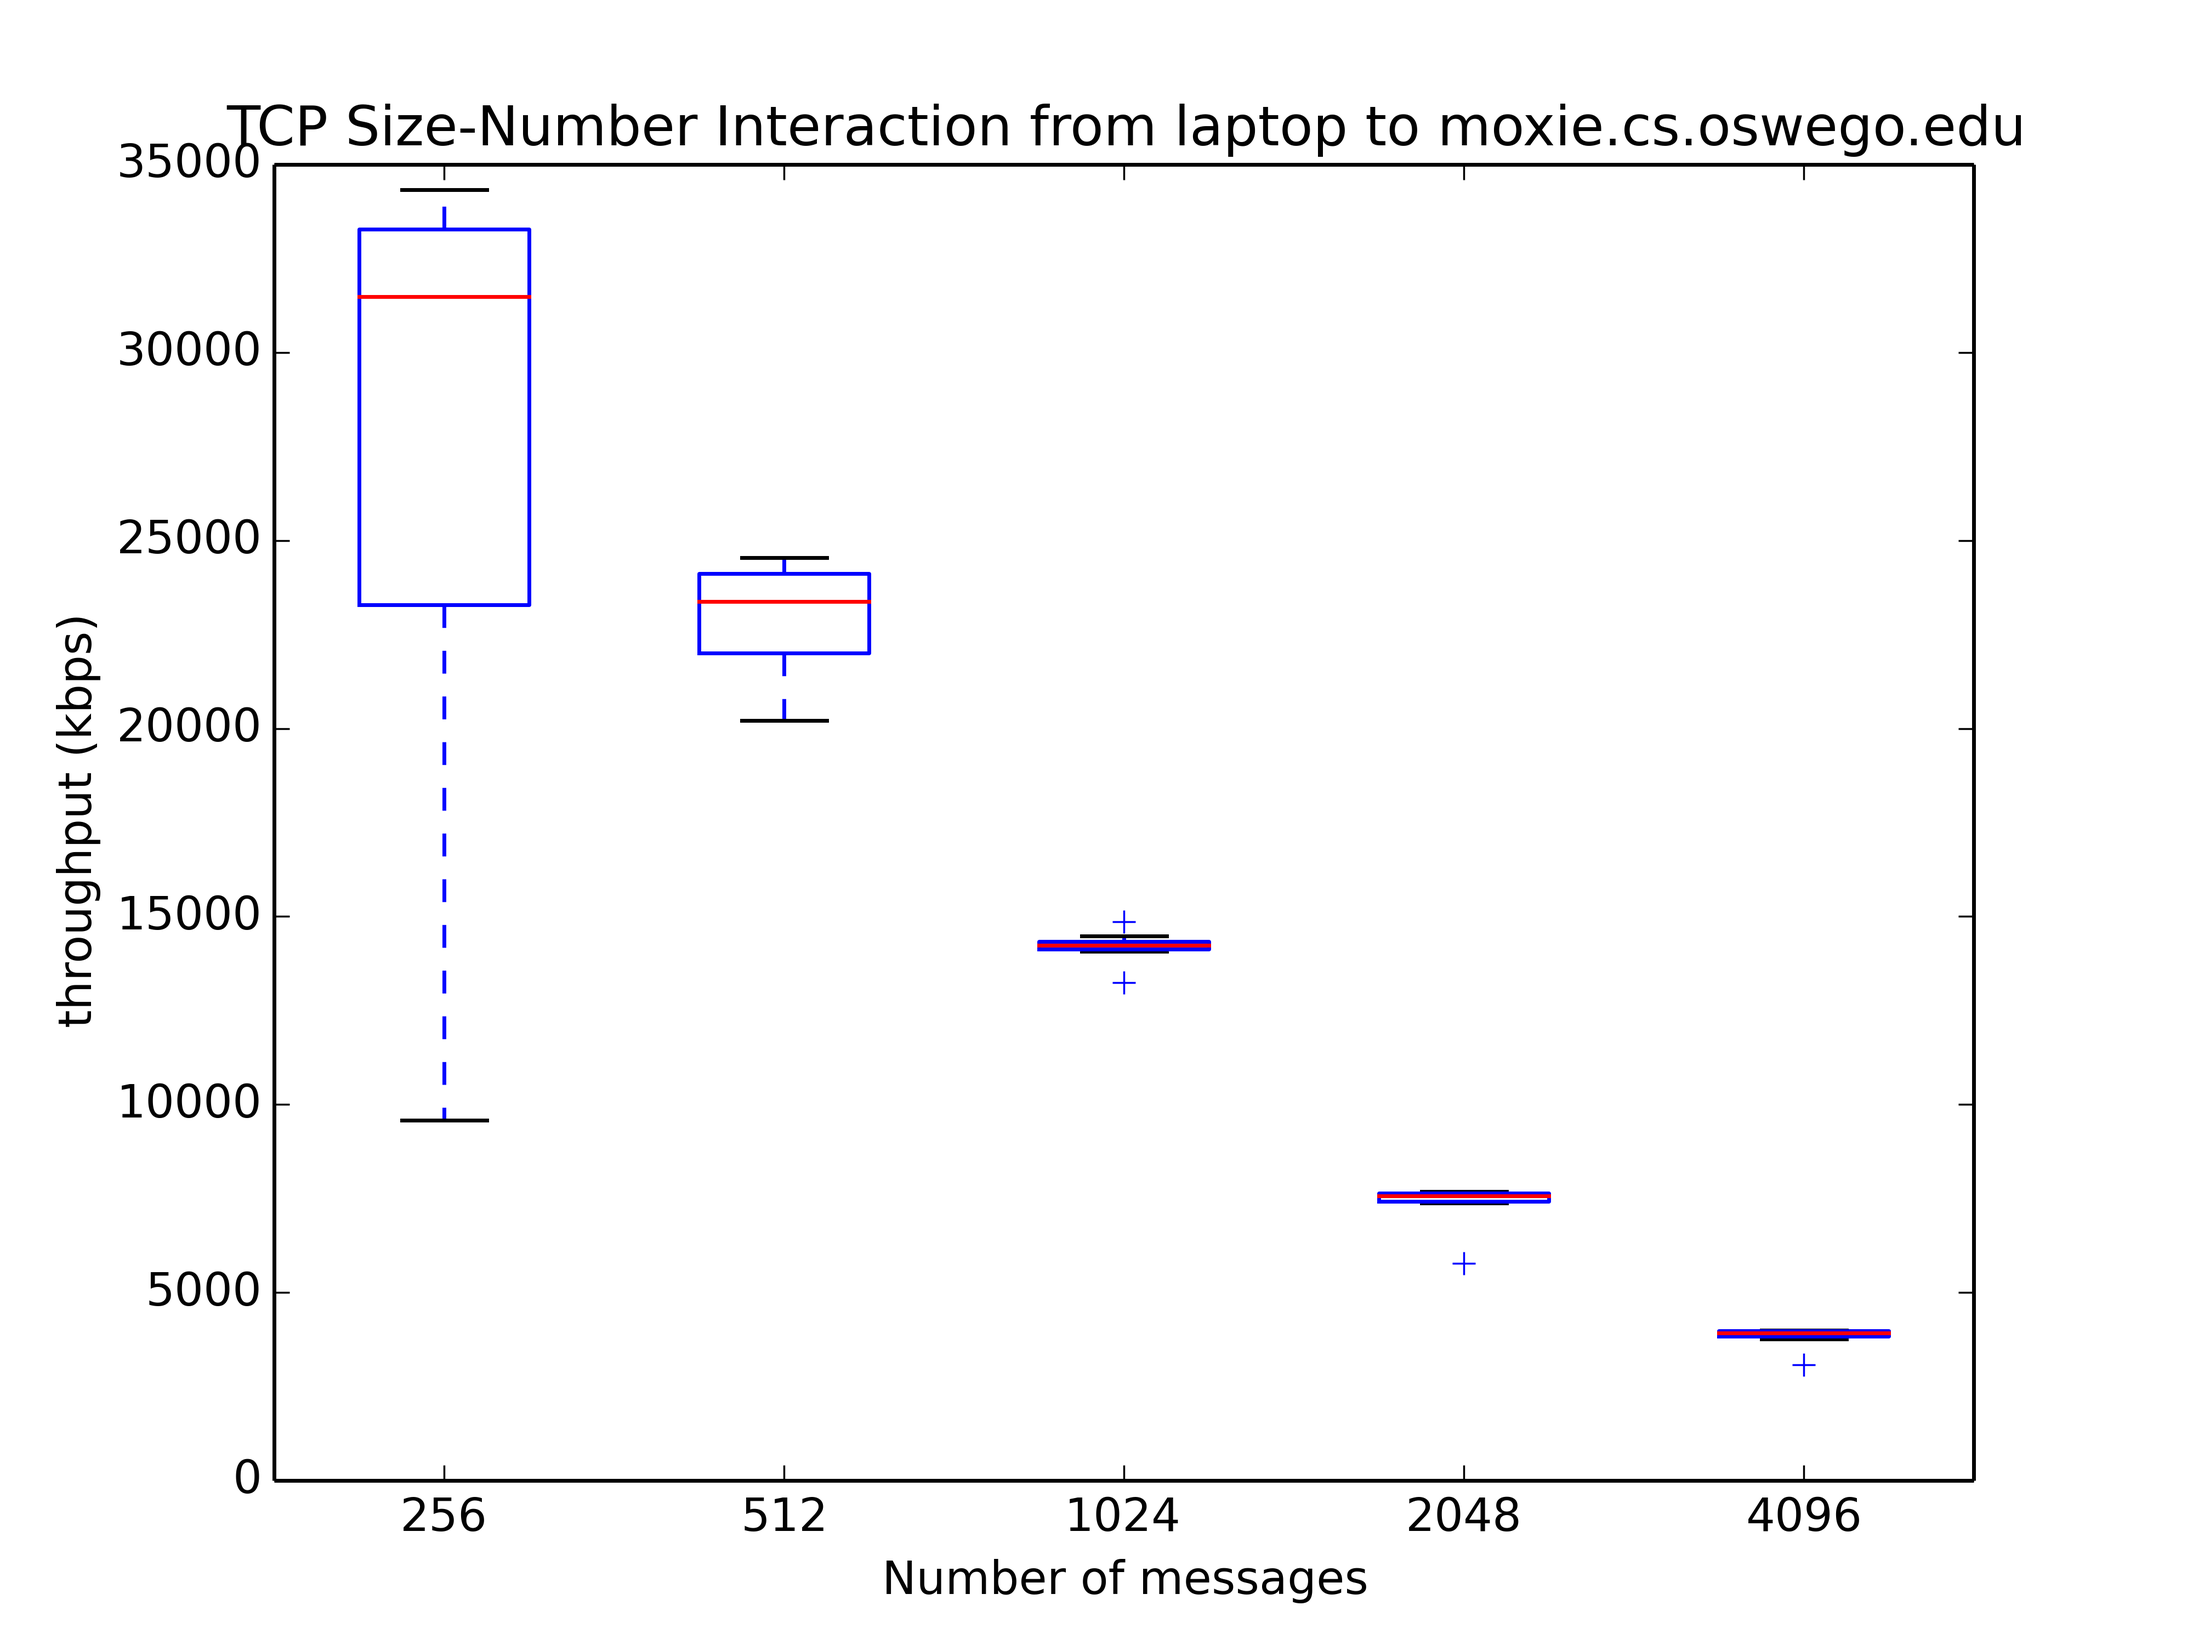
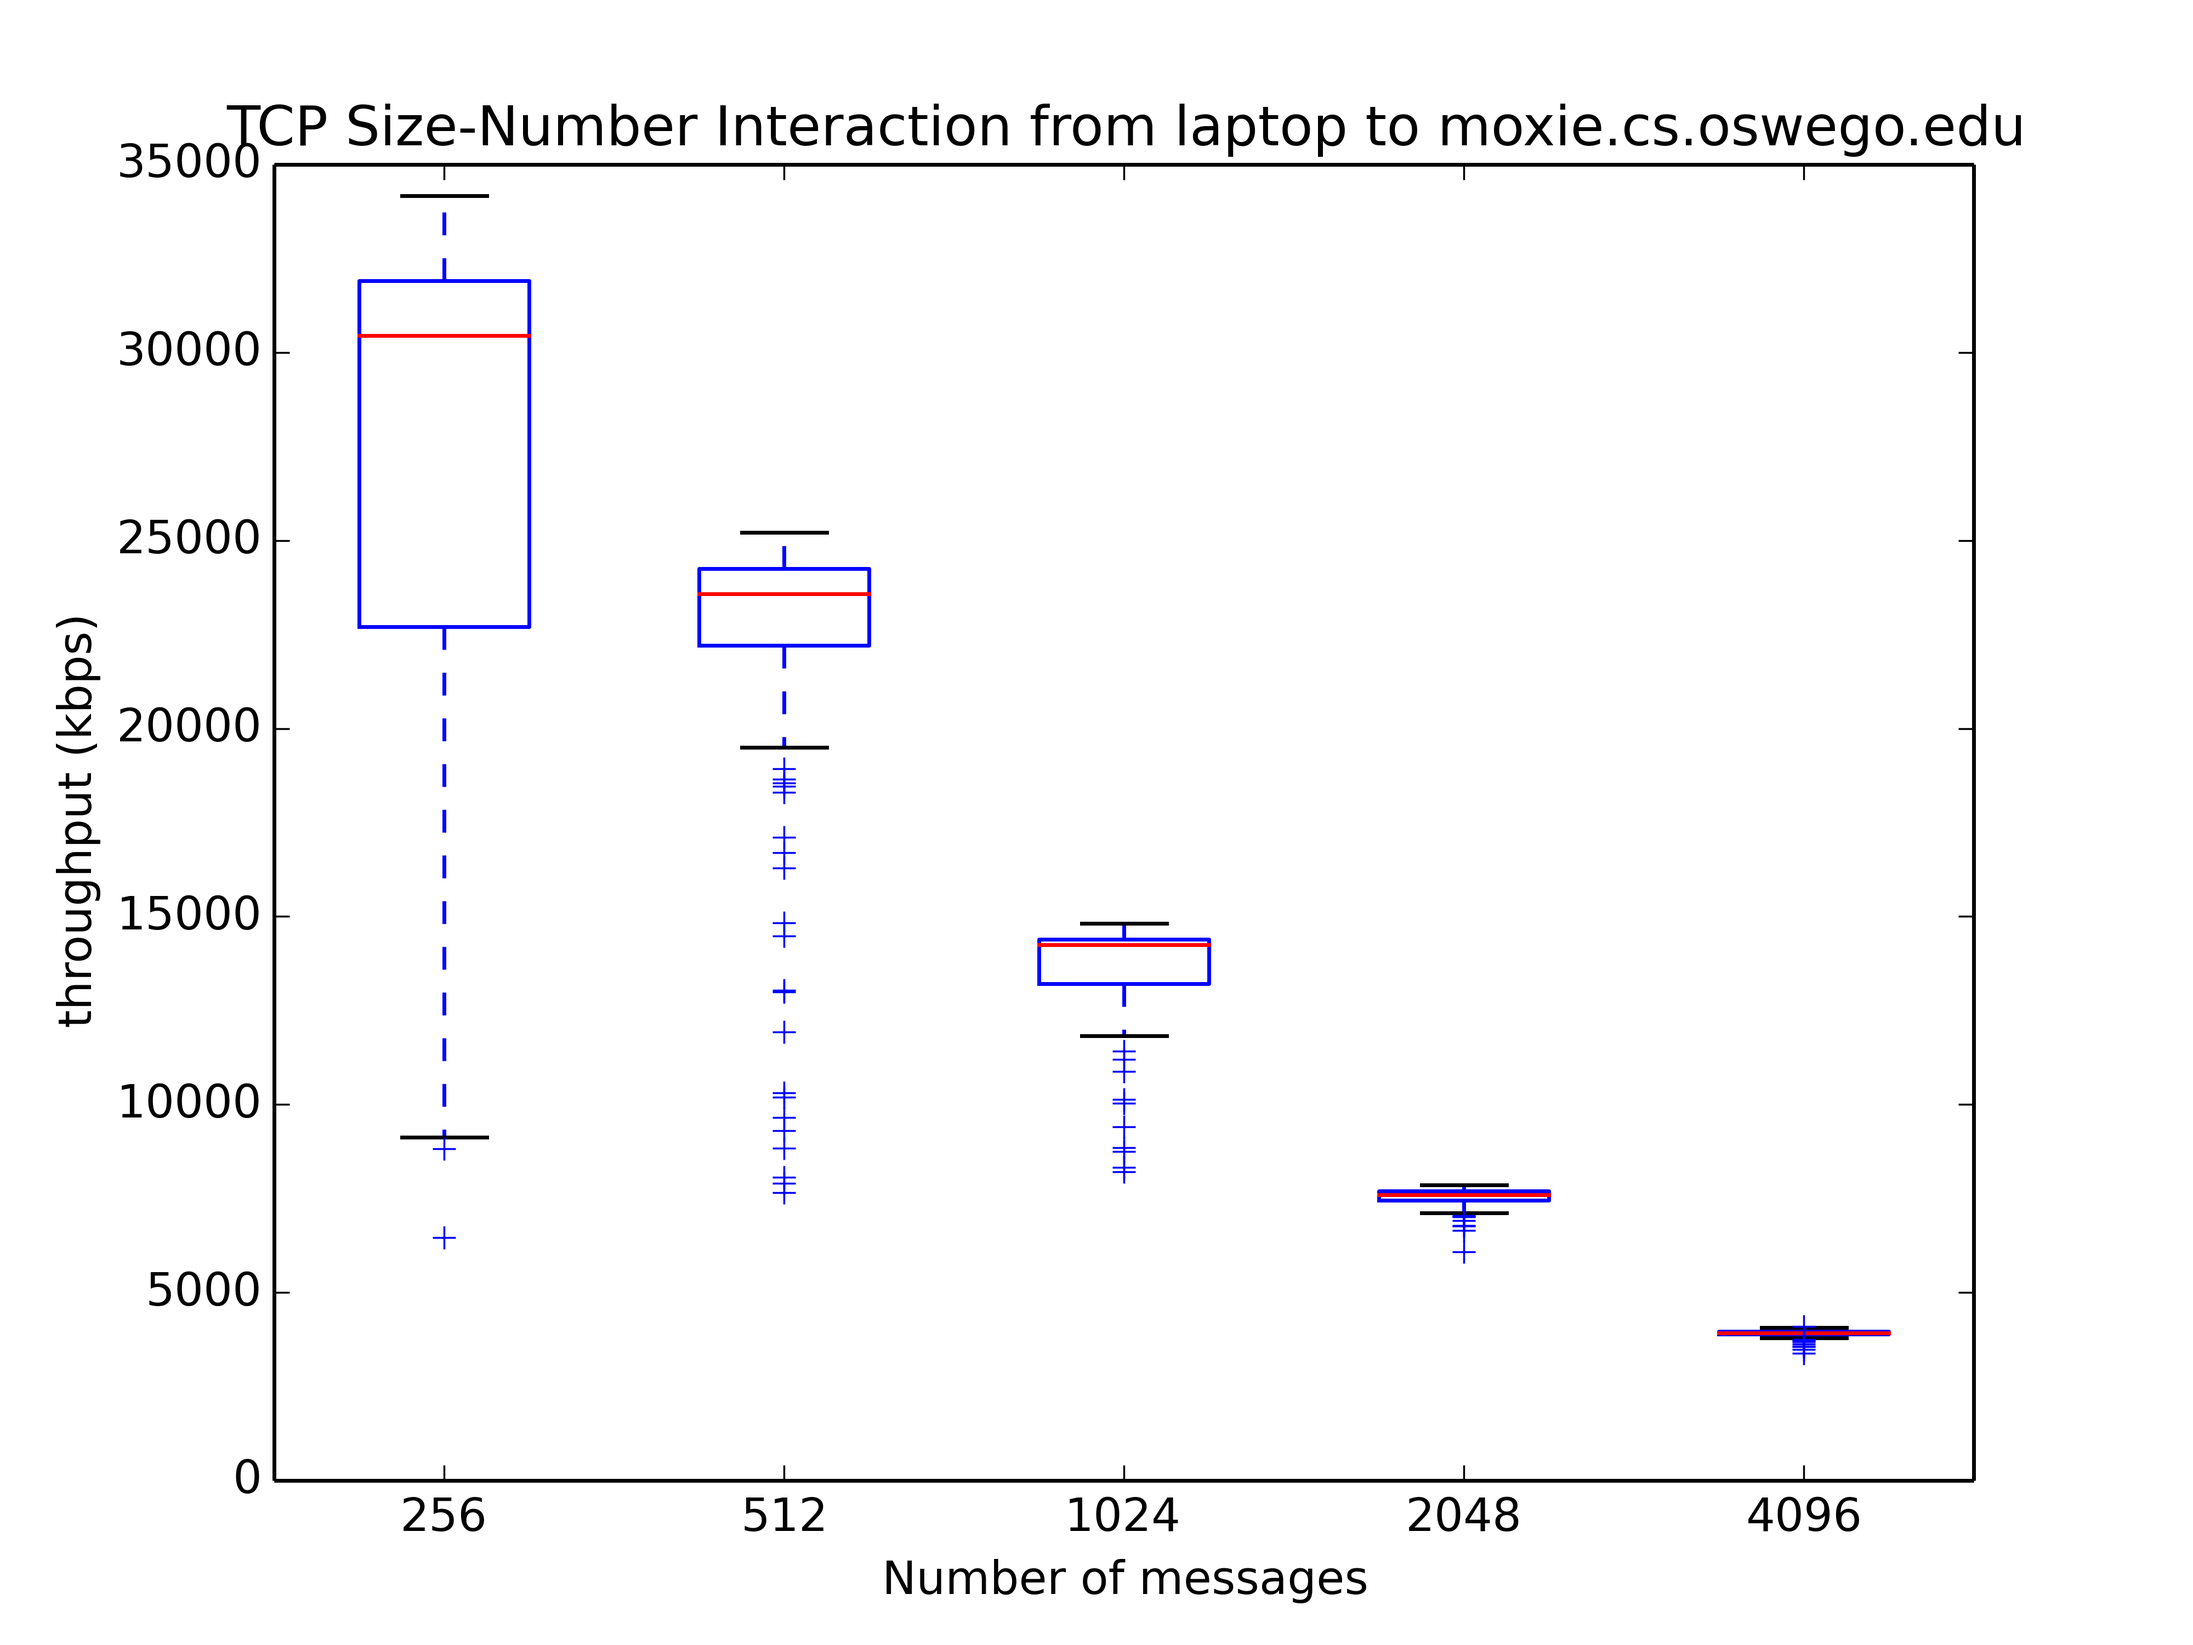
things

diff --git a/testing.py b/testing.py
@@ -42,7 +42,7 @@ def throughput(msgsizes, type, host, port, *args, **kwargs):
                             numpy.float)
 
     data = numpy.array(
-        [list(throughput_generator(msgsize, 100, type, host, port))
+        [list(throughput_generator(msgsize, 5, type, host, port))
          for msgsize in sorted(msgsizes)])
 
     return data, labels
